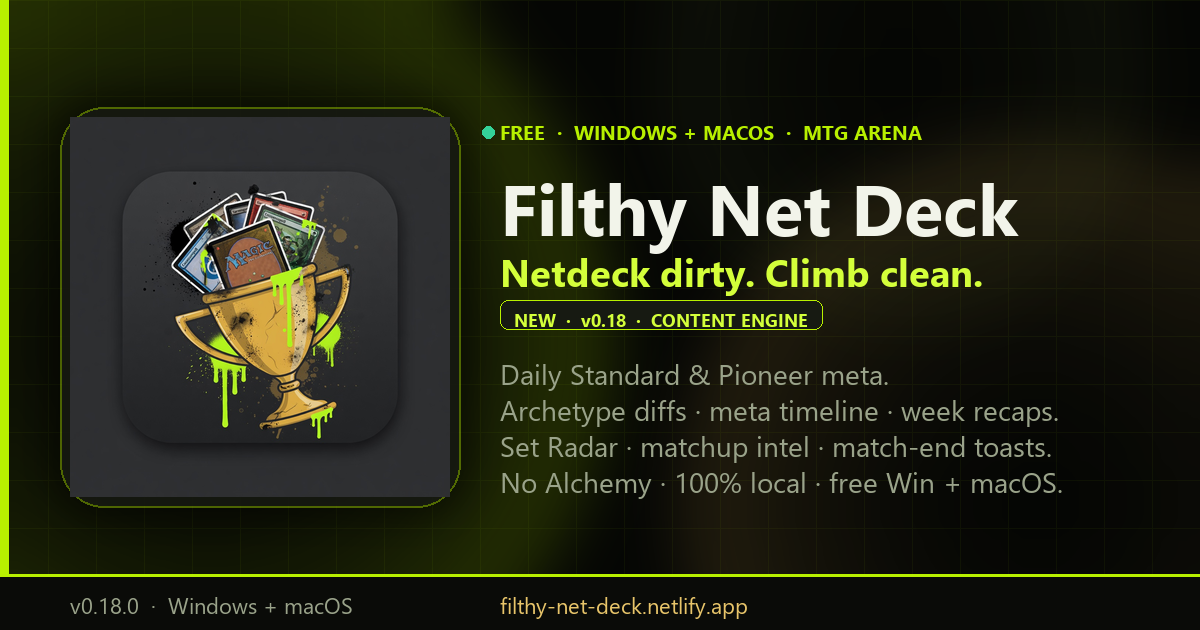
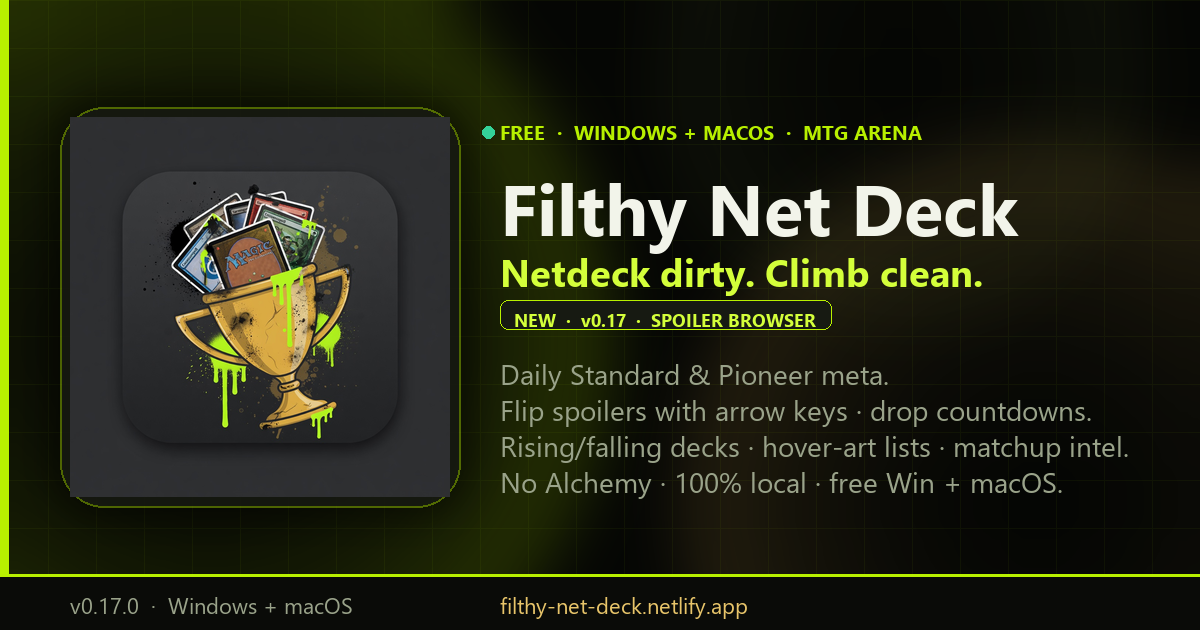
Fix skeptic gaps: CI alert labels, lockfile version, marketing vs downloads.
- daily-meta failure issues match by title only (no missing pipeline-failure label)
- package-lock.json root version aligned to 0.18.0
- Marketing/OG/version.json stay on downloadable v0.17.0 surface; drop unshipped
  0.18 content-engine claims until signed Windows publish has a passphrase

Changed region(s): [[0.4008, 0.6333, 0.9558, 0.7238], [0.5242, 0.4825, 0.6783, 0.5429]]

diff --git a/website/index.html b/website/index.html
@@ -3,10 +3,10 @@
   <head>
     <meta charset="UTF-8" />
     <meta name="viewport" content="width=device-width, initial-scale=1.0" />
-    <title>Filthy Net Deck — Content engine: diffs, recaps &amp; Set Radar</title>
+    <title>Filthy Net Deck — Set Radar, matchup intel &amp; local winrates</title>
     <meta
       name="description"
-      content="Free MTG Arena companion for Windows &amp; macOS. Daily archetype diffs, meta-share timeline, shareable week recaps, match-end toasts, Set Radar spoilers, matchup intel, local winrates. 100% local."
+      content="Free MTG Arena companion for Windows &amp; macOS. Set Radar spoilers (no Alchemy), daily Standard &amp; Pioneer boards, matchup intel vs tagged archetypes, streaks, CSV, tray autostart. 100% local."
     />
     <meta name="theme-color" content="#070806" />
     <meta name="color-scheme" content="dark" />
@@ -19,33 +19,33 @@
     <meta property="og:locale" content="en_US" />
     <meta property="og:type" content="website" />
     <meta property="og:url" content="https://filthy-net-deck.netlify.app/" />
-    <meta property="og:title" content="Filthy Net Deck v0.18 — Daily diffs, week recaps &amp; Set Radar" />
+    <meta property="og:title" content="Filthy Net Deck v0.17 — Flip through spoilers like a binder" />
     <meta
       property="og:description"
-      content="NEW: archetype list diffs, 30-day meta timeline, you-vs-meta, shareable recap PNGs, match-end toasts, Set Radar, matchup intel. Free Windows &amp; macOS. 100% local."
+      content="Set Radar with arrow-key browsing, Arena drop countdowns, rising/falling deck chips, hover-art lists, matchup intel vs every tagged archetype. Free Windows &amp; macOS. 100% local."
     />
-    <meta property="og:image" content="https://filthy-net-deck.netlify.app/assets/og-image.png?v=0.18.0" />
-    <meta property="og:image:secure_url" content="https://filthy-net-deck.netlify.app/assets/og-image.png?v=0.18.0" />
+    <meta property="og:image" content="https://filthy-net-deck.netlify.app/assets/og-image.png?v=0.17.0" />
+    <meta property="og:image:secure_url" content="https://filthy-net-deck.netlify.app/assets/og-image.png?v=0.17.0" />
     <meta property="og:image:type" content="image/png" />
     <meta property="og:image:width" content="1200" />
     <meta property="og:image:height" content="630" />
     <meta
       property="og:image:alt"
-      content="Filthy Net Deck v0.18 — daily archetype diffs, week recaps, Set Radar, matchup intel — free for Windows + macOS"
+      content="Filthy Net Deck v0.17 — Set Radar spoilers, Arena drop countdowns, daily Standard &amp; Pioneer lists, matchup intel — free for Windows + macOS"
     />
 
     <!-- X / Twitter Card -->
     <meta name="twitter:card" content="summary_large_image" />
     <meta name="twitter:url" content="https://filthy-net-deck.netlify.app/" />
-    <meta name="twitter:title" content="Filthy Net Deck v0.18 — Daily diffs, week recaps &amp; Set Radar" />
+    <meta name="twitter:title" content="Filthy Net Deck v0.17 — Flip through spoilers like a binder" />
     <meta
       name="twitter:description"
-      content="Archetype diffs, meta timeline, shareable recaps, match toasts, Set Radar, matchup intel. Free · Windows + macOS · 100% local."
+      content="Arrow-key spoiler browsing, drop countdowns, rising/falling decks, hover-art lists, matchup intel. Free · Windows + macOS · 100% local."
     />
-    <meta name="twitter:image" content="https://filthy-net-deck.netlify.app/assets/og-image.png?v=0.18.0" />
+    <meta name="twitter:image" content="https://filthy-net-deck.netlify.app/assets/og-image.png?v=0.17.0" />
     <meta
       name="twitter:image:alt"
-      content="Filthy Net Deck v0.18 — daily archetype diffs, week recaps, Set Radar, matchup intel — free for Windows + macOS"
+      content="Filthy Net Deck v0.17 — Set Radar spoilers, Arena drop countdowns, daily Standard &amp; Pioneer lists, matchup intel — free for Windows + macOS"
     />
 
     <link rel="icon" type="image/png" href="/assets/favicon.png" />
@@ -95,8 +95,8 @@
             <strong>real ranked lists only</strong>, Scryfall-verified — with
             <strong>Set Radar</strong> spoilers (no Alchemy), rising/falling deck chips, and
             hover-art lists. Private tracker: <strong>matchup intel vs tagged archetypes</strong>,
-            streaks &amp; CSV, shareable week recaps, and optional match-end toasts. Start with your
-            PC, tray-ready. Bo1/Bo3 · one-click Arena import. Nothing leaves your machine.
+            streaks &amp; CSV export, Climb Tracker, and tray autostart so matches never slip by.
+            Bo1/Bo3 · one-click Arena import. Nothing leaves your machine.
           </p>
           <div class="hero-actions">
             <a
@@ -214,7 +214,7 @@
                     <ul>
                       <li><i class="t1"></i> you 4–0 vs Izzet</li>
                       <li><i class="t2"></i> Streak W3 · 62% wk</li>
-                      <li><i class="t3"></i> CSV + recap PNG</li>
+                      <li><i class="t3"></i> CSV export · local</li>
                     </ul>
                   </div>
                 </div>
@@ -251,8 +251,8 @@
           <h2>Everything you need to stay filthy-current</h2>
           <p class="section-lede">
             Set Radar spoilers, daily meta boards with movement chips, matchup intel vs every tagged
-            archetype, streaks &amp; shareable recaps, Climb Tracker, and a private winrate tracker —
-            one native app. Only real data. Your history never leaves this PC.
+            archetype, streaks &amp; CSV, Climb Tracker, tray autostart, and a private winrate
+            tracker — one native app. Only real data. Your history never leaves this PC.
           </p>
         </div>
         <div class="feature-bento">
@@ -308,7 +308,7 @@
                 <span>Streak W3 · rolling WR sparkline</span><i style="--w: 72%"></i><b>hot</b>
               </div>
               <div class="stats-mock-row">
-                <span>One-click CSV · week recap PNG</span><i style="--w: 60%"></i><b>share</b>
+                <span>One-click CSV export of match history</span><i style="--w: 60%"></i><b>local</b>
               </div>
             </div>
           </article>
@@ -318,9 +318,8 @@
               <h3>Standard &amp; Pioneer — movement included</h3>
               <p>
                 Eight full lists per format from live metagame share. Rising/falling chips from the
-                daily diff, multi-select color filters, deck view grouped by type with avg mana
-                value and hover-art rows, plus a 30-day meta-share timeline and “you vs the meta”
-                table.
+                daily diff, multi-select color filters, and deck view grouped by type with avg mana
+                value and hover-art on every card row.
               </p>
             </div>
             <div class="fb-visual fb-decks">
@@ -344,7 +343,7 @@
           <article class="fb reveal delay-1">
             <div class="fb-icon">📊</div>
             <h3>My Stats</h3>
-            <p>Today / streak / rolling WR, seasons, fresh runs, CSV export, shareable week recap.</p>
+            <p>Today / streak / rolling WR, seasons, fresh runs, mini card-art diffs, CSV export.</p>
           </article>
           <article class="fb reveal delay-2">
             <div class="fb-icon">🖥️</div>

diff --git a/website/assets/_gen_og.py b/website/assets/_gen_og.py
@@ -130,7 +130,7 @@ def main() -> None:
     draw.text((tx, ty + 128), "Netdeck dirty. Climb clean.", font=tag_font, fill=ACID_BRIGHT)
 
     # Feature callout badge — bump with each marketed release
-    badge_text = f"NEW  {mid}  v0.18  {mid}  CONTENT ENGINE"
+    badge_text = f"NEW  {mid}  v0.17  {mid}  SPOILER BROWSER"
     badge_pad_x, badge_pad_y = 14, 8
     bb = draw.textbbox((0, 0), badge_text, font=badge_font)
     bw, bh = bb[2] - bb[0], bb[3] - bb[1]
@@ -146,8 +146,8 @@ def main() -> None:
 
     lines = [
         "Daily Standard & Pioneer meta.",
-        f"Archetype diffs {mid} meta timeline {mid} week recaps.",
-        f"Set Radar {mid} matchup intel {mid} match-end toasts.",
+        f"Flip spoilers with arrow keys {mid} drop countdowns.",
+        f"Rising/falling decks {mid} hover-art lists {mid} matchup intel.",
         f"No Alchemy {mid} 100% local {mid} free Win + macOS.",
     ]
     dy = ty + 236
@@ -158,7 +158,7 @@ def main() -> None:
     # Bottom bar
     draw.rectangle([0, H - 56, W, H], fill=(10, 11, 8, 245))
     draw.rectangle([0, H - 56, W, H - 54], fill=(*ACID, 200))
-    draw.text((70, H - 40), "v0.18.0  ·  Windows + macOS", font=small_font, fill=MUTED)
+    draw.text((70, H - 40), "v0.17.0  ·  Windows + macOS", font=small_font, fill=MUTED)
     draw.text((tx, H - 40), "filthy-net-deck.netlify.app", font=small_font, fill=GOLD_LIGHT)
 
     final = img.convert("RGB")

diff --git a/ROADMAP.md b/ROADMAP.md
@@ -17,7 +17,7 @@
 ## Immediate follow-ups (source-only until passphrase / mac CI)
 
 - [x] **Roll v0.17.0 macOS dmg** onto `website/downloads/` + fix mac labels (done; site carried 0.17.0 dmg).
-- [ ] **Finish v0.18.0 signed Windows publish** — code + site + version surfaces are ready; needs `TAURI_SIGNING_PRIVATE_KEY` + passphrase for updater `.sig` + `updater/latest.json`.
+- [ ] **Finish v0.18.0 signed Windows publish** — source is 0.18.0 with M5/M6; marketing + soft channel intentionally stay on **downloadable 0.17.0** until passphrase unlocks `%USERPROFILE%\.tauri\filthy-net-deck.key`. Then: signed NSIS + `.sig` → `updater/latest.json` → version.json ×2 → OG `?v=0.18.0` → tag.
 - [ ] **Roll v0.18.0 macOS dmg** after tag `v0.18.0` CI succeeds (same pattern as prior mac rolls).
 
 ## Milestones 1–4 — shipped (2026-07-17, versions 0.14.1 → 0.17.0)